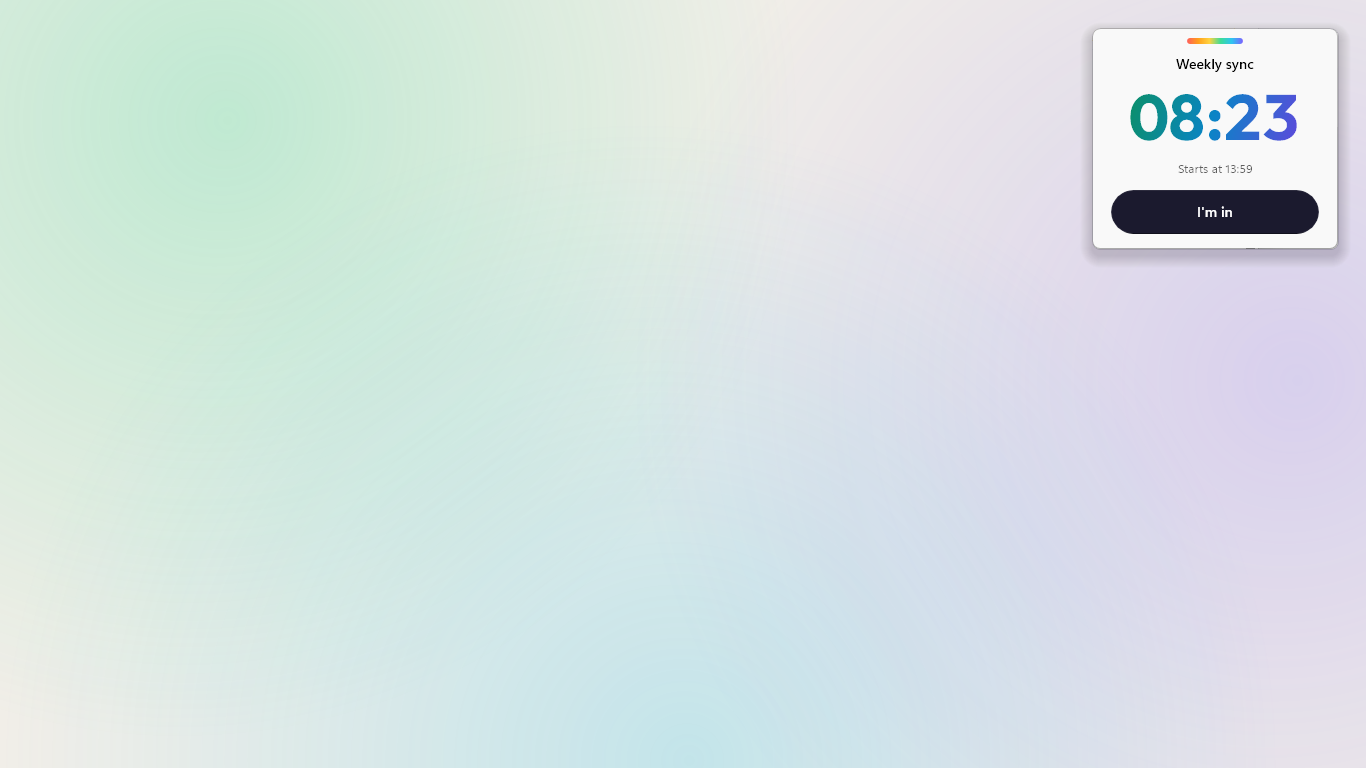
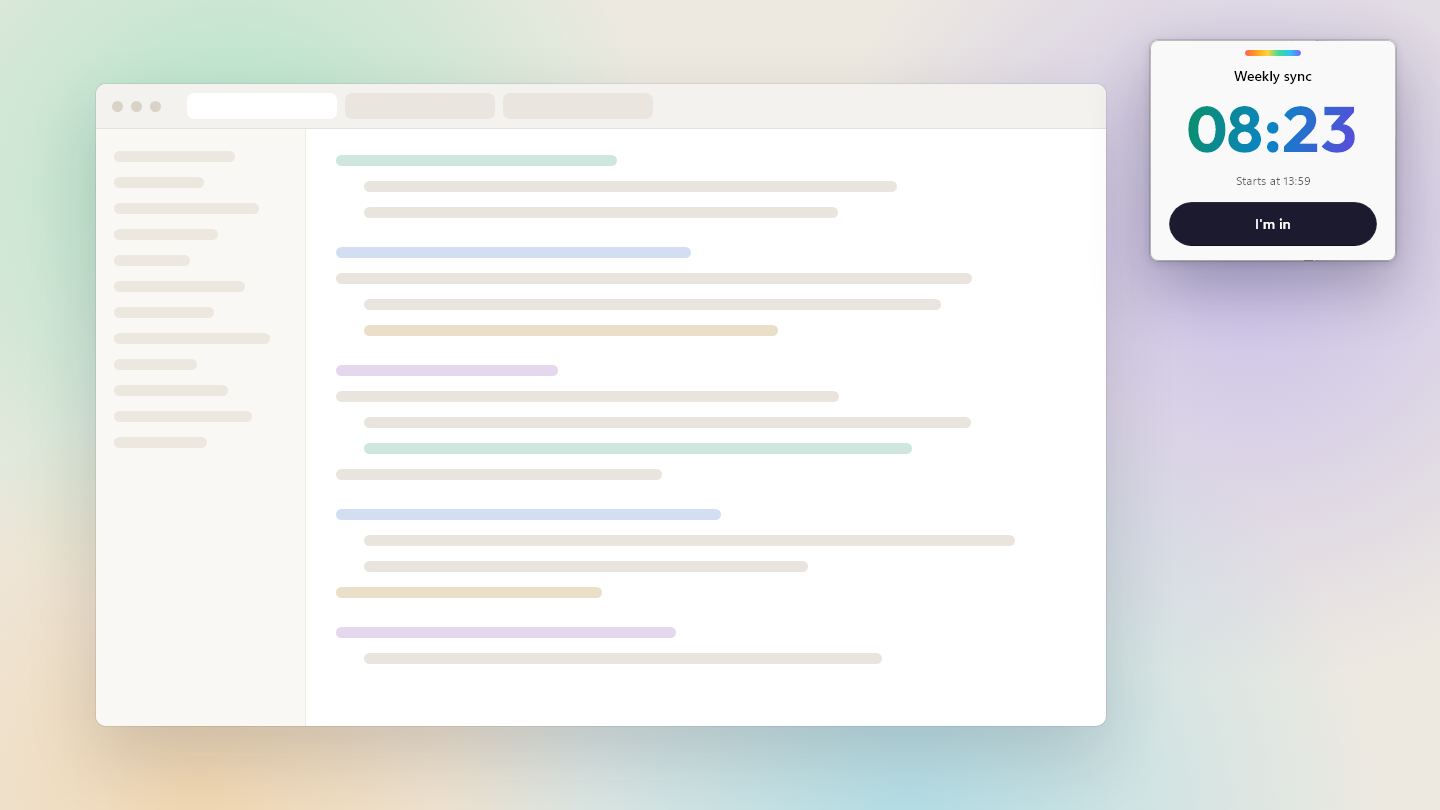
docs: redesign Store listing art and screenshots, rendered from HTML sources

diff --git a/docs/store/src/scene.html b/docs/store/src/scene.html
@@ -1,0 +1,85 @@
+<!doctype html>
+<html lang="en">
+<head>
+<meta charset="utf-8">
+<title>Tunnel Timer Store screenshot scene</title>
+<!--
+  Composes one Microsoft Store screenshot (1440x810). The app windows are the real, unscaled
+  captures from docs/; everything behind them is a neutral stand-in for "your work".
+  Select the scene with ?s=upcoming | imminent | overdue | panel.
+  Rendered to PNG by scripts/render-store-assets.ps1.
+-->
+<style>
+  html, body { margin: 0; }
+  body { width: 1440px; height: 810px; overflow: hidden; position: relative; background: #EDE9E1; font-family: "Segoe UI Variable Text", "Segoe UI", sans-serif; }
+  .glow { position: absolute; border-radius: 50%; }
+  .work { position: absolute; left: 96px; top: 84px; width: 1010px; height: 642px; border-radius: 10px; background: #FFFFFF; box-shadow: 0 30px 70px rgba(27, 26, 46, 0.16), 0 0 0 1px rgba(27, 26, 46, 0.08); overflow: hidden; }
+  .work header { height: 44px; background: #F4F2EE; border-bottom: 1px solid #E7E2D9; display: flex; align-items: center; gap: 8px; padding: 0 16px; }
+  .dot { width: 11px; height: 11px; border-radius: 50%; background: #D8D2C7; }
+  .tab { margin-left: 18px; width: 150px; height: 26px; border-radius: 7px; background: #FFFFFF; }
+  .tab + .tab { margin-left: 0; background: #EAE6DF; }
+  .body { display: flex; height: 598px; }
+  .side { width: 210px; background: #FAF8F5; border-right: 1px solid #EFEAE2; padding: 22px 18px; box-sizing: border-box; }
+  .lines { flex: 1; padding: 26px 30px; box-sizing: border-box; }
+  .bar { height: 11px; border-radius: 6px; background: #E9E5DE; margin-bottom: 15px; }
+  .side .bar { background: #ECE7DF; }
+  .bar.a { background: #CFE6DD; } .bar.b { background: #D4DEF2; } .bar.c { background: #EADFC9; } .bar.d { background: #E5D7EE; }
+  .shot { position: absolute; border-radius: 8px; overflow: hidden; box-shadow: 0 26px 60px rgba(27, 26, 46, 0.30), 0 2px 8px rgba(27, 26, 46, 0.14), 0 0 0 1px rgba(27, 26, 46, 0.14); }
+  .shot img { display: block; position: absolute; }
+  #widget { right: 44px; top: 40px; }
+  #panel { right: 44px; bottom: 26px; }
+</style>
+</head>
+<body>
+<div class="glow" style="left:-220px; top:-260px; width:900px; height:900px; background: radial-gradient(circle, rgba(61,220,151,0.34), rgba(61,220,151,0) 68%)"></div>
+<div class="glow" style="left:420px; top:330px; width:980px; height:980px; background: radial-gradient(circle, rgba(46,196,241,0.30), rgba(46,196,241,0) 68%)"></div>
+<div class="glow" style="right:-260px; top:-200px; width:900px; height:900px; background: radial-gradient(circle, rgba(123,97,255,0.30), rgba(123,97,255,0) 68%)"></div>
+<div class="glow" style="left:-200px; bottom:-380px; width:800px; height:800px; background: radial-gradient(circle, rgba(255,159,28,0.24), rgba(255,159,28,0) 68%)"></div>
+
+<div class="work" aria-hidden="true">
+  <header><span class="dot"></span><span class="dot"></span><span class="dot"></span><span class="tab"></span><span class="tab"></span><span class="tab"></span></header>
+  <div class="body">
+    <div class="side" id="side"></div>
+    <div class="lines" id="lines"></div>
+  </div>
+</div>
+
+<div class="shot" id="widget"><img id="widgetImage" alt=""></div>
+<div class="shot" id="panel" hidden><img id="panelImage" alt=""></div>
+
+<script>
+  const scene = new URLSearchParams(location.search).get('s') || 'upcoming';
+
+  // Deterministic stand-in content: the same bars on every render.
+  const sideWidths = [70, 52, 84, 60, 44, 76, 58, 90, 48, 66, 80, 54];
+  document.getElementById('side').innerHTML = sideWidths.map(w => `<div class="bar" style="width:${w}%"></div>`).join('');
+  const lineWidths = [38, 72, 64, 0, 48, 86, 78, 56, 0, 30, 68, 82, 74, 44, 0, 52, 88, 60, 36, 0, 46, 70];
+  const tints = ['a', '', '', '', 'b', '', '', 'c', '', 'd', '', '', 'a', '', '', 'b', '', '', 'c', '', 'd', ''];
+  document.getElementById('lines').innerHTML = lineWidths.map((w, i) => w ? `<div class="bar ${tints[i]}" style="width:${w}%; margin-left:${(i % 5 === 1 || i % 5 === 2) ? 28 : 0}px"></div>` : '<div style="height:14px"></div>').join('');
+
+  // The widget captures include the window's invisible 7 px resize border left, right and bottom.
+  const widgetFile = { upcoming: 'widget-upcoming.png', imminent: 'widget-imminent.png', overdue: 'widget-overdue.png', panel: 'widget-upcoming.png' }[scene];
+  const widget = document.getElementById('widget');
+  const widgetImage = document.getElementById('widgetImage');
+  widgetImage.onload = () => {
+    widget.style.width = (widgetImage.naturalWidth - 14) + 'px';
+    widget.style.height = (widgetImage.naturalHeight - 7) + 'px';
+    widgetImage.style.left = '-7px';
+    widgetImage.style.top = '0';
+  };
+  widgetImage.src = '../../' + widgetFile;
+
+  if (scene === 'panel') {
+    const panel = document.getElementById('panel');
+    const panelImage = document.getElementById('panelImage');
+    panel.hidden = false;
+    panelImage.onload = () => {
+      panel.style.width = panelImage.naturalWidth + 'px';
+      panel.style.height = panelImage.naturalHeight + 'px';
+    };
+    panelImage.src = '../../panel.png';
+    widget.style.right = '470px';
+  }
+</script>
+</body>
+</html>

diff --git a/docs/store/src/art.html b/docs/store/src/art.html
@@ -1,0 +1,75 @@
+<!doctype html>
+<html lang="en">
+<head>
+<meta charset="utf-8">
+<title>Tunnel Timer Store art</title>
+<!--
+  Draws the Microsoft Store logo art. The viewport size decides the format:
+  square (box art, app tile), portrait (poster) or landscape (hero).
+  ?title=0 leaves the name out, for the hero image and the small tile.
+  Rendered to PNG by scripts/render-store-assets.ps1.
+-->
+<style>
+  @font-face { font-family: "Outfit"; src: url("../../../src/TunnelTimer.App/Assets/Fonts/Outfit.ttf"); font-weight: 100 900; }
+  html, body { margin: 0; height: 100%; }
+  body { background: #1B1A2E; overflow: hidden; position: relative; display: flex; flex-direction: column; align-items: center; justify-content: center; font-family: "Outfit", sans-serif; color: #FFFFFF; }
+  .glow { position: absolute; border-radius: 50%; }
+  svg { position: relative; display: block; }
+  h1 { position: relative; margin: 0; font-weight: 700; letter-spacing: -0.02em; line-height: 1; }
+  p { position: relative; margin: 0; font-weight: 400; color: #C9C7E0; line-height: 1.2; }
+</style>
+</head>
+<body>
+<div class="glow" id="g1"></div>
+<div class="glow" id="g2"></div>
+<div class="glow" id="g3"></div>
+
+<svg id="mark" viewBox="0 0 256 232" aria-hidden="true">
+  <g fill="none" stroke-width="14" stroke-linecap="butt">
+    <path d="M28 232 L28 116 A100 100 0 0 1 228 116 L228 232" stroke="#FF5E5B"/>
+    <path d="M44 232 L44 116 A84 84 0 0 1 212 116 L212 232" stroke="#FF9F1C"/>
+    <path d="M60 232 L60 116 A68 68 0 0 1 196 116 L196 232" stroke="#FFD23F"/>
+    <path d="M76 232 L76 116 A52 52 0 0 1 180 116 L180 232" stroke="#3DDC97"/>
+    <path d="M92 232 L92 116 A36 36 0 0 1 164 116 L164 232" stroke="#2EC4F1"/>
+    <path d="M108 232 L108 116 A20 20 0 0 1 148 116 L148 232" stroke="#7B61FF"/>
+  </g>
+  <path d="M115 232 L115 116 A13 13 0 0 1 141 116 L141 232 Z" fill="#FFF6DC"/>
+</svg>
+<h1 id="title">Tunnel Timer</h1>
+<p id="tagline">Meeting Countdown</p>
+
+<script>
+  const width = innerWidth, height = innerHeight;
+  const short = Math.min(width, height);
+  const showTitle = new URLSearchParams(location.search).get('title') !== '0';
+  const landscape = width > height * 1.2;
+
+  const glow = (id, x, y, size, color) => {
+    const element = document.getElementById(id);
+    Object.assign(element.style, { left: (x - size / 2) + 'px', top: (y - size / 2) + 'px', width: size + 'px', height: size + 'px', background: `radial-gradient(circle, ${color}, rgba(0,0,0,0) 68%)` });
+  };
+  glow('g1', width * 0.12, height * 0.1, short * 1.3, 'rgba(123,97,255,0.42)');
+  glow('g2', width * 0.92, height * 0.3, short * 1.2, 'rgba(46,196,241,0.26)');
+  glow('g3', width * 0.5, height * 1.05, short * 1.3, 'rgba(255,94,91,0.26)');
+
+  const mark = document.getElementById('mark');
+  const title = document.getElementById('title');
+  const tagline = document.getElementById('tagline');
+
+  if (showTitle) {
+    const markWidth = short * 0.52;
+    mark.style.width = markWidth + 'px';
+    title.style.fontSize = (short * 0.118) + 'px';
+    title.style.marginTop = (short * 0.07) + 'px';
+    tagline.style.fontSize = (short * 0.05) + 'px';
+    tagline.style.marginTop = (short * 0.022) + 'px';
+  } else {
+    // The mark alone, standing on the bottom edge like a tunnel entrance.
+    title.remove();
+    tagline.remove();
+    document.body.style.justifyContent = 'flex-end';
+    mark.style.width = (landscape ? height * 0.92 : short * 0.78) + 'px';
+  }
+</script>
+</body>
+</html>
